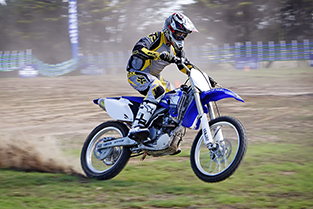
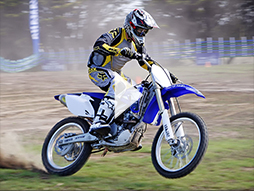
как поставить?

diff --git a/templates/moto/css/template.css b/templates/moto/css/template.css
@@ -1128,42 +1128,107 @@ section.group div.command div.photo_it_director{
 }
 
 /* Как поставить? */
-/* Размер фоток при ХД поставить 254 на 191 */
-section.main div.video_moto div.photo_video_moto {
-    width: 214px;
-    height: 151px;
-    border: 8px solid #1c1c1c;
-    background: url('../images/photo3.png');
-    background-size: 100% !important;
-}
 
-section.main div.installation_scheme_1 div.photo_installation_scheme_1 {
-    width: 214px;
-    height: 151px;
+section.main div.video_moto img.photo_video_moto {
+    width: 80%;
+    height: 80%;
     border: 8px solid #1c1c1c;
-    background: url('../images/schema_1.png');
-    background-size: 100% !important;
-}
-
-section.main div.video_scooter div.photo_video_scooter {
-    width: 214px;
-    height: 151px;
-    border: 8px solid #1c1c1c;
-    background: url('../images/motorcyclist.png');
-    background-size: 100% !important;
-}
-
-section.main div.installation_scheme_2 div.photo_installation_scheme_2 {
-    width: 214px;
-    height: 151px;
-    border: 8px solid #1c1c1c;
-    background: url('../images/schema_2.png');
-    background-size: 100% !important;
 }
 
 
+section.main div.installation_scheme_1 img.photo_installation_scheme_1 {
+    width: 80%;
+    height: 80%;
+    border: 8px solid #1c1c1c;
+
+}
+
+section.main div.video_scooter img.photo_video_scooter {
+    width: 80%;
+    height: 80%;
+    border: 8px solid #1c1c1c;
+
+}
+
+section.main div.installation_scheme_2 img.photo_installation_scheme_2 {
+    width: 80%;
+    height: 80%;
+    border: 8px solid #1c1c1c;
+
+}
+
+div.static_page div.inst_line_1, div.static_page div.inst_line_2{
+    float: left;
+    width: 100%;
+}
+
+section.main div.video_moto, section.main div.video_scooter,
+section.main div.installation_scheme_1,
+section.main div.installation_scheme_2 {
+    width: 49%;
+    color: #ffffff;
+    float: left;
+}
+
+section.main div.video_moto {
+    margin-bottom:40px;
+}
+
+h1.header_question{
+    font-size: 48px;
+    font-family: 'bebas_neue_cyrillicregular';
+    margin-bottom: 5px;
+}
 
 
+section.main div.static_page p.installation_center{
+        color: #b88717;
+        margin-top: 25px;
+        border-bottom-color: #ffffff;
+        font-size:16px;
+        clear:both;
+
+}
+
+section.main div.item-page {
+    margin-bottom: 250px;
+}
+
+div.static_page div.inst_line_1 h2.string_above_photo, div.static_page div.inst_line_2 h2.string_above_photo {
+    font-size: 28px;
+    font-family: 'bebas_neue_cyrillicregular';
+    margin-bottom: 10px;
+}
+
+div.static_page p.text_question {
+    font-size: 16px;
+    line-height: 24px;
+    margin-bottom: 45px;
+}
+div.static_page span.string_under_photo{
+    display:block;
+    margin-top: 10px;
+    font-size: 18px;
+}
+
+div.static_page div.video_scooter span.string_under_photo{
+    margin-bottom: 59px;
+}
+
+div.static_page hr.line_inst{
+    border: none;
+    border-top: 1px solid #4e4e4e;
+    width: 100%;
+    margin-top: 9px;
+}
+
+/* МЕДИА: 1920 */
+@media (min-width:1600px) {
+    div.static_page div.inst_line_1, div.static_page div.inst_line_2{
+        float: left;
+        width: 49%;
+    }
+}
 
 /* МЕДИА: 1600 */
 @media (max-width:1599px) {
@@ -1715,6 +1780,14 @@ section.main div.installation_scheme_2 div.photo_installation_scheme_2 {
 
     section.main div.item-page div.static_page__top {
         margin-bottom: 3px;
+    }
+
+    /* Как поставить?*/
+    section.main div.video_moto,
+    section.main div.video_scooter,
+    section.main div.installation_scheme_1,
+    section.main div.installation_scheme_2{
+        width: 39%;
     }
 }
 /* МЕДИА: 980 */

diff --git a/configuration.php b/configuration.php
@@ -12,9 +12,9 @@ class JConfig {
 	public $debug = '0';
 	public $debug_lang = '0';
 	public $dbtype = 'mysqli';
-	public $host = 'localhost';
+	public $host = 'sql.unrealprojects.com';
 	public $user = 'root';
-	public $password = '';
+	public $password = 'password';
 	public $db = 'moto';
 	public $dbprefix = 'j_';
 	public $live_site = '';
